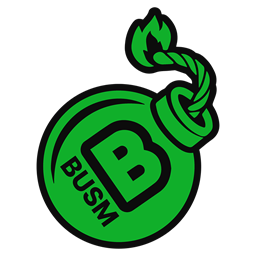
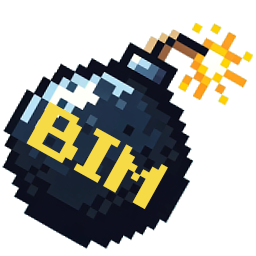
updated

diff --git a/src/components/Header.vue b/src/components/Header.vue
@@ -18,14 +18,12 @@
         <!-- <router-link :to="{ name: 'FarmStand' }" class="nav-link"
           >farm</router-link
         > -->
-        <router-link :to="{ name: 'Stand' }" class="nav-link"
-          >Get BIM</router-link
-        >
+        <router-link :to="{ name: 'Stand' }" class="nav-link">Get BIM</router-link>
 
         <!-- <router-link :to="{ name: 'Mim3Pool' }" class="nav-link"
           >BIM3POOL</router-link
         > -->
-        <!-- <a href="https://docs.busm.money/" target="_blank" class="nav-link"
+        <!-- <a href="https://docs.bim.money/" target="_blank" class="nav-link"
           >Docs</a
         > -->
 
@@ -39,10 +37,7 @@
         <!-- <p class="nav-link" @click="showSwapPopup">Swap</p> -->
 
         <div class="btns-wrap">
-          <NetworkButton
-            @click="networkClickHandler"
-            :networkType="activeNetwork"
-          />
+          <NetworkButton @click="networkClickHandler" :networkType="activeNetwork" />
 
           <div class="btn-margin">
             <ConnectButton />
@@ -55,20 +50,15 @@
         <TokenButton :tokenName="'xBOMB'" />
       </nav>
 
-      <img
-        src="@/assets/images/mobile-menu.svg"
-        alt=""
-        class="mobile-btn"
-        @click="menuClickHandler"
-      />
+      <img src="@/assets/images/mobile-menu.svg" alt="" class="mobile-btn" @click="menuClickHandler" />
     </div>
   </header>
 </template>
 
 <script>
-const NetworkButton = () => import("@/components/UiComponents/NetworkButton");
-const ConnectButton = () => import("@/components/UiComponents/ConnectButton");
-const TokenButton = () => import("@/components/UiComponents/AddTokenBtn");
+const NetworkButton = () => import('@/components/UiComponents/NetworkButton');
+const ConnectButton = () => import('@/components/UiComponents/ConnectButton');
+const TokenButton = () => import('@/components/UiComponents/AddTokenBtn');
 
 export default {
   computed: {
@@ -76,12 +66,12 @@ export default {
       return !!this.$store.getters.getSwapObject;
     },
     showLogoBg() {
-      const pages = ["Home"];
+      const pages = ['Home'];
 
       return pages.indexOf(this.$route.name) !== -1;
     },
     itsTransparent() {
-      const pages = ["Home", "Docs", "Tech", "Liquidations"];
+      const pages = ['Home', 'Docs', 'Tech', 'Liquidations'];
 
       return pages.indexOf(this.$route.name) !== -1;
     },
@@ -89,19 +79,19 @@ export default {
       return this.$store.getters.getActiveNetwork;
     },
     itsDashboard() {
-      return this.$route.name === "Dashboard";
+      return this.$route.name === 'Dashboard';
     },
   },
   methods: {
     showSwapPopup() {
-      this.$store.commit("setPopupState", {
-        type: "swap",
+      this.$store.commit('setPopupState', {
+        type: 'swap',
         isShow: true,
       });
     },
     networkClickHandler() {
-      this.$store.commit("setPopupState", {
-        type: "network",
+      this.$store.commit('setPopupState', {
+        type: 'network',
         isShow: true,
       });
     },
@@ -109,13 +99,13 @@ export default {
       const isAlreadyOpen = this.$store.getters.getPopupState;
       const openPopupType = this.$store.getters.getPopupType;
 
-      if (isAlreadyOpen && openPopupType === "sidemenu") {
-        this.$store.commit("closePopups");
+      if (isAlreadyOpen && openPopupType === 'sidemenu') {
+        this.$store.commit('closePopups');
         return;
       }
 
-      this.$store.commit("setPopupState", {
-        type: "sidemenu",
+      this.$store.commit('setPopupState', {
+        type: 'sidemenu',
         isShow: true,
       });
     },

diff --git a/public/index.html b/public/index.html
@@ -8,37 +8,12 @@
     <link rel="apple-touch-icon" sizes="60x60" href="/apple-icon-60x60.png" />
     <link rel="apple-touch-icon" sizes="72x72" href="/apple-icon-72x72.png" />
     <link rel="apple-touch-icon" sizes="76x76" href="/apple-icon-76x76.png" />
-    <link
-      rel="apple-touch-icon"
-      sizes="114x114"
-      href="/apple-icon-114x114.png"
-    />
-    <link
-      rel="apple-touch-icon"
-      sizes="120x120"
-      href="/apple-icon-120x120.png"
-    />
-    <link
-      rel="apple-touch-icon"
-      sizes="144x144"
-      href="/apple-icon-144x144.png"
-    />
-    <link
-      rel="apple-touch-icon"
-      sizes="152x152"
-      href="/apple-icon-152x152.png"
-    />
-    <link
-      rel="apple-touch-icon"
-      sizes="180x180"
-      href="/apple-icon-180x180.png"
-    />
-    <link
-      rel="icon"
-      type="image/png"
-      sizes="192x192"
-      href="/android-icon-192x192.png"
-    />
+    <link rel="apple-touch-icon" sizes="114x114" href="/apple-icon-114x114.png" />
+    <link rel="apple-touch-icon" sizes="120x120" href="/apple-icon-120x120.png" />
+    <link rel="apple-touch-icon" sizes="144x144" href="/apple-icon-144x144.png" />
+    <link rel="apple-touch-icon" sizes="152x152" href="/apple-icon-152x152.png" />
+    <link rel="apple-touch-icon" sizes="180x180" href="/apple-icon-180x180.png" />
+    <link rel="icon" type="image/png" sizes="192x192" href="/android-icon-192x192.png" />
     <link rel="icon" type="image/png" sizes="32x32" href="/favicon-32x32.png" />
     <link rel="icon" type="image/png" sizes="96x96" href="/favicon-96x96.png" />
     <link rel="icon" type="image/png" sizes="16x16" href="/favicon-16x16.png" />
@@ -46,14 +21,13 @@
     <meta name="msapplication-TileColor" content="#ffffff" />
     <meta name="msapplication-TileImage" content="/ms-icon-144x144.png" />
     <meta name="theme-color" content="#ffffff" />
-    <title>BIM - BOMB US Money - US Stablecoin</title>
+    <title>BIM - BOMB Internet Money - US Stablecoin</title>
   </head>
   <body>
     <noscript>
       <strong
-        >We're sorry but <%= htmlWebpackPlugin.options.title %> doesn't work
-        properly without JavaScript enabled. Please enable it to
-        continue.</strong
+        >We're sorry but <%= htmlWebpackPlugin.options.title %> doesn't work properly without JavaScript enabled. Please
+        enable it to continue.</strong
       >
     </noscript>
     <div id="app"></div>

diff --git a/src/components/MobileMenu.vue b/src/components/MobileMenu.vue
@@ -5,12 +5,7 @@
         ><img src="@/assets/images/bomb-logo.png" alt="" class="logo"
       /></router-link>
 
-      <img
-        src="@/assets/images/mobile-menu.svg"
-        alt=""
-        class="mobile-btn"
-        @click="hideMenu"
-      />
+      <img src="@/assets/images/mobile-menu.svg" alt="" class="mobile-btn" @click="hideMenu" />
     </div>
     <div class="btns-wrap">
       <ConnectButton />
@@ -29,7 +24,7 @@
       <!-- <a href="https://app.bomb.money/xbomb" target="_blank" class="nav-link"
         >Get xBOMB</a
       > -->
-      <!-- <a href="https://docs.busm.money/" target="_blank" class="nav-link"
+      <!-- <a href="https://docs.bim.money/" target="_blank" class="nav-link"
         >Docs</a
       > -->
       <a
@@ -51,8 +46,8 @@
 
 <script>
 //const NetworkButton = () => import("@/components/UiComponents/NetworkButton");
-const ConnectButton = () => import("@/components/UiComponents/ConnectButton");
-const TokenButton = () => import("@/components/UiComponents/AddTokenBtn");
+const ConnectButton = () => import('@/components/UiComponents/ConnectButton');
+const TokenButton = () => import('@/components/UiComponents/AddTokenBtn');
 
 export default {
   watch: {
@@ -62,17 +57,17 @@ export default {
   },
   methods: {
     hideMenu() {
-      this.$store.commit("closePopups");
+      this.$store.commit('closePopups');
     },
     networkClickHandler() {
-      this.$store.commit("setPopupState", {
-        type: "network",
+      this.$store.commit('setPopupState', {
+        type: 'network',
         isShow: true,
       });
     },
     showSwapPopup() {
-      this.$store.commit("setPopupState", {
-        type: "swap",
+      this.$store.commit('setPopupState', {
+        type: 'swap',
         isShow: true,
       });
     },

diff --git a/src/components/Footer.vue b/src/components/Footer.vue
@@ -6,9 +6,7 @@
         <img src="@/assets/images/skulll.svg" alt="" class="skulls-img img-2" />-->
       </div>
       <nav class="footer-nav">
-        <a target="_blank" href="https://docs.busm.money" class="nav-link">
-          Docs
-        </a>
+        <a target="_blank" href="https://docs.bim.money" class="nav-link"> Docs </a>
         <!-- <router-link :to="{ name: 'Docs' }" class="nav-link">Docs</router-link> -->
         <!--   <router-link :to="{ name: 'Tech' }" class="nav-link">Tech</router-link> -->
         <!-- <router-link :to="{ name: 'Liquidations' }" class="nav-link"
@@ -16,18 +14,10 @@
         > -->
       </nav>
       <div class="links-wrap">
-        <a
-          target="_blank"
-          href="https://bombbshare.medium.com/"
-          class="link-item"
-        >
+        <a target="_blank" href="https://bombbshare.medium.com/" class="link-item">
           <img src="@/assets/images/medium-pixel.svg" alt="" />
         </a>
-        <a
-          target="_blank"
-          href="https://twitter.com/BombMoneyBSC"
-          class="link-item ml"
-        >
+        <a target="_blank" href="https://twitter.com/BombMoneyBSC" class="link-item ml">
           <img src="@/assets/images/twitter-pixel.svg" alt="" />
         </a>
       </div>
@@ -39,7 +29,7 @@
 export default {
   computed: {
     itsTransparent() {
-      const pages = ["Home", "Docs", "Tech", "Liquidations"];
+      const pages = ['Home', 'Docs', 'Tech', 'Liquidations'];
 
       return pages.indexOf(this.$route.name) !== -1;
     },

diff --git a/src/utils/tokens/addedTokens.js b/src/utils/tokens/addedTokens.js
@@ -1,25 +1,23 @@
 export default [
   {
-    name: "BIM",
-    address: "0xA677a11A6d3abb32F1E195db5650b147577194c6",
-    symbol: "BIM",
+    name: 'BIM',
+    address: '0xA677a11A6d3abb32F1E195db5650b147577194c6',
+    symbol: 'BIM',
     decimals: 18,
-    image:
-      "https://raw.githubusercontent.com/bombmoney/bomb-assets/master/busm-256.png",
+    image: 'https://raw.githubusercontent.com/bombmoney/bomb-assets/master/token-BIM.png',
   },
   {
-    name: "xBOMB",
-    address: "0xAf16cB45B8149DA403AF41C63AbFEBFbcd16264b",
-    symbol: "xBOMB",
+    name: 'xBOMB',
+    address: '0xAf16cB45B8149DA403AF41C63AbFEBFbcd16264b',
+    symbol: 'xBOMB',
     decimals: 18,
-    image:
-      "https://raw.githubusercontent.com/bombmoney/bomb-assets/master/xbomb-256.png",
+    image: 'https://raw.githubusercontent.com/bombmoney/bomb-assets/master/xbomb-256.png',
   },
   {
-    name: "sSpell",
-    address: "0x26fa3fffb6efe8c1e69103acb4044c26b9a106a9",
-    symbol: "sSPELL",
+    name: 'sSpell',
+    address: '0x26fa3fffb6efe8c1e69103acb4044c26b9a106a9',
+    symbol: 'sSPELL',
     decimals: 18,
-    image: "https://abracadabra.money/sspelllogopng",
+    image: 'https://abracadabra.money/sspelllogopng',
   },
 ];
